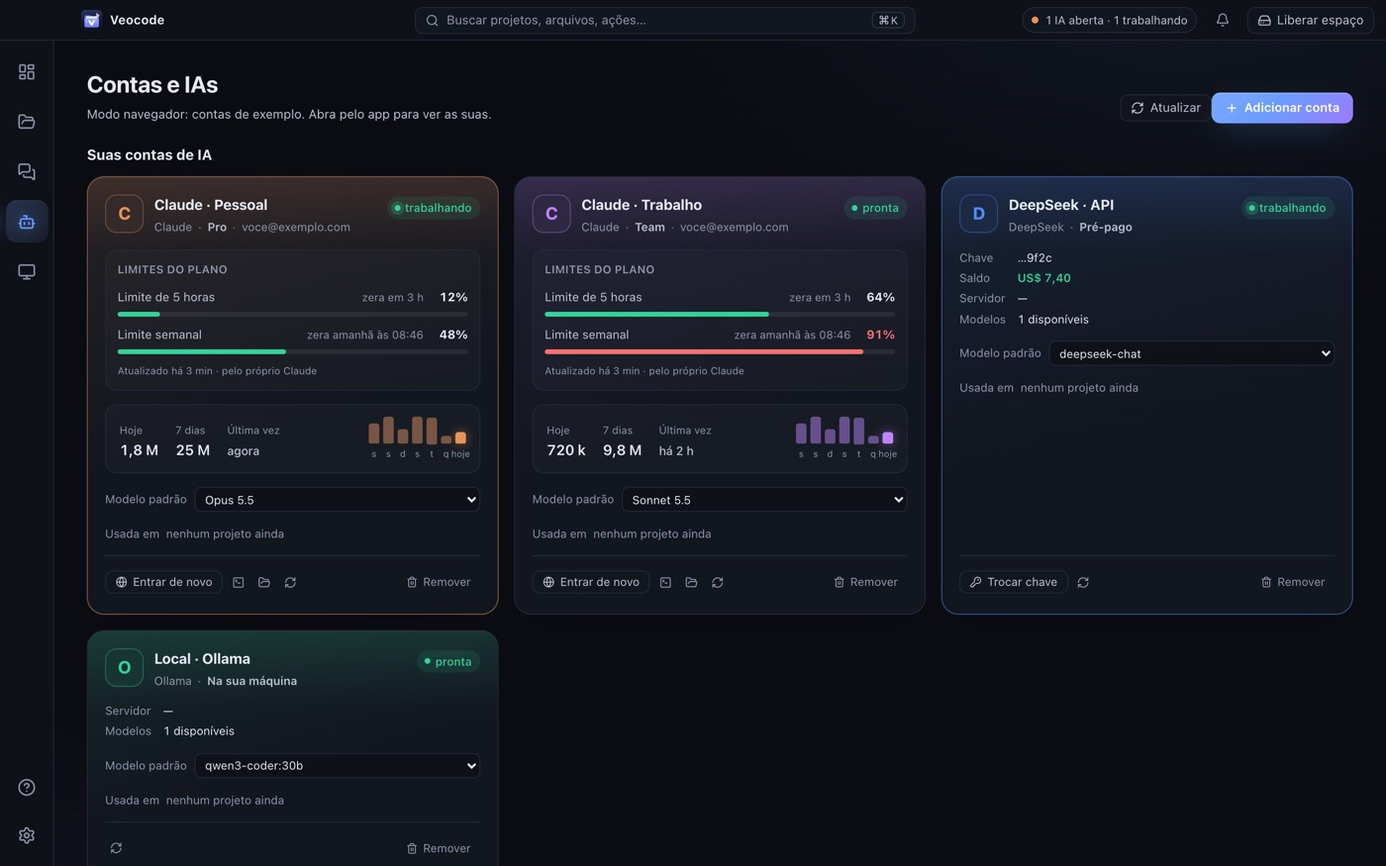
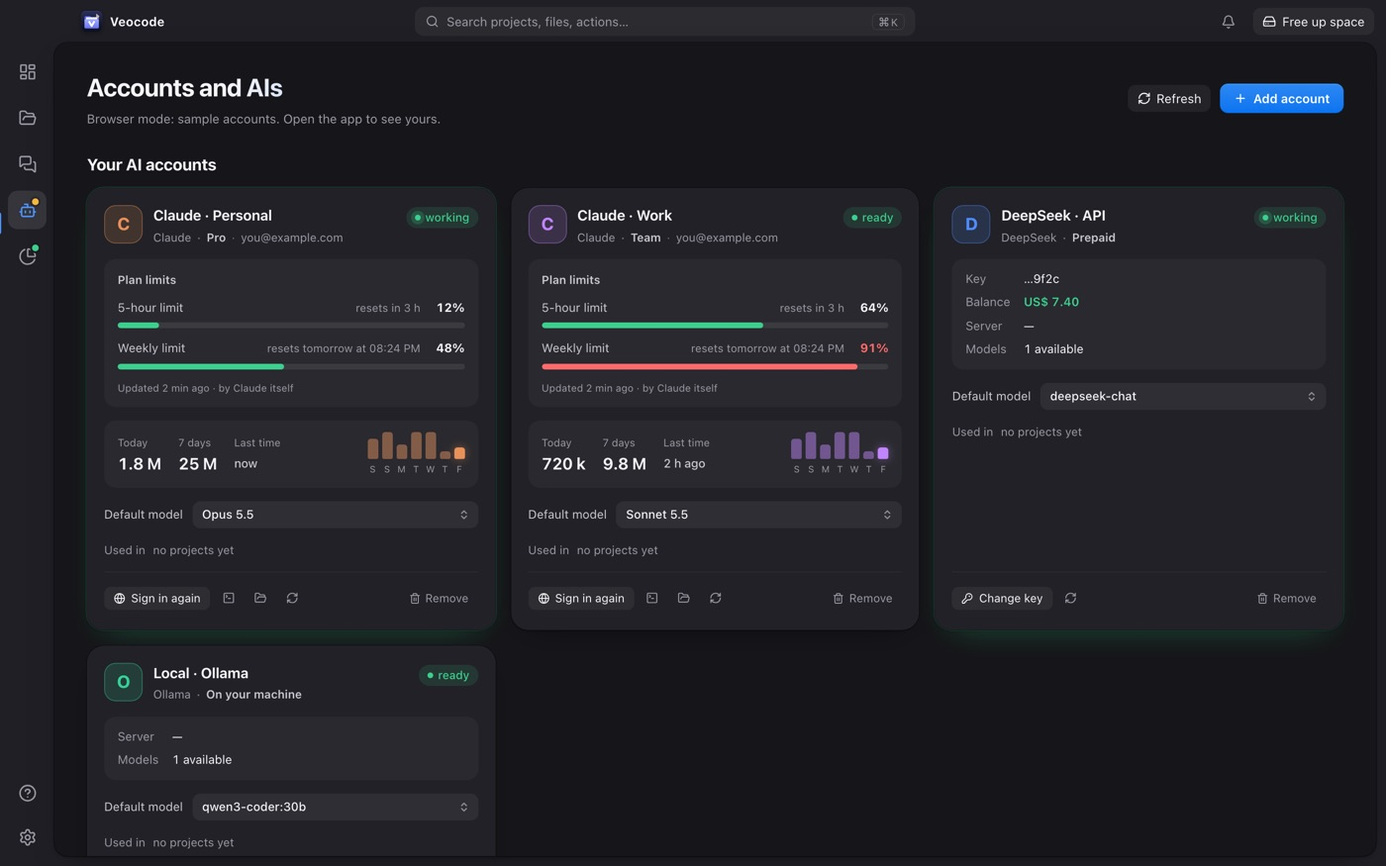
Veocode 0.6.0: project map section, new screenshots
- New "Mapa do projeto" section on the Veocode page, with the map shot.
- Projects section rewritten for the two modes (AI and Code), groups,
  Local/Cloud and the real Stop; Code mode screenshot.
- All Veocode screenshots retaken in English from the sample data.
- Home card: map thumbnail, map in the quick look, updated copy.
- apps.js points to v0.6.0.

diff --git a/veocode/strings.js b/veocode/strings.js
@@ -6,7 +6,6 @@ window.WITCH_STRINGS = Object.freeze({
   "Veja e controle o que as IAs fazem no seu Mac. Os seus projetos, as suas contas de IA e tudo o que os agentes deixam para trás, numa janela só. Gratuito e de código aberto.": ["See and control what AI agents do on your Mac. Your projects, your AI accounts and everything the agents leave behind, in one window. Free and open source.", "Mira y controla lo que hacen las IA en tu Mac. Tus proyectos, tus cuentas de IA y todo lo que los agentes dejan atrás, en una sola ventana. Gratis y de código abierto.", "Смотрите и управляйте тем, что ИИ делает на вашем Mac. Ваши проекты, аккаунты ИИ и всё, что оставляют агенты, — в одном окне. Бесплатно и с открытым исходным кодом."],
   "Instalar no Mac": ["Install on Mac", "Instalar en el Mac", "Установить на Mac"],
   "macOS 13 ou mais novo · Apple Silicon e Intel · Gratuito": ["macOS 13 or later · Apple Silicon and Intel · Free", "macOS 13 o posterior · Apple Silicon e Intel · Gratis", "macOS 13 или новее · Apple Silicon и Intel · Бесплатно"],
-  "Um projeto com o agente trabalhando: a árvore de arquivos acende a cada arquivo lido ou editado": ["A project with the agent at work: the file tree lights up on every file it reads or edits", "Un proyecto con el agente trabajando: el árbol de archivos se ilumina en cada archivo leído o editado", "Проект, где работает агент: дерево файлов подсвечивает каждый прочитанный или изменённый файл"],
   "tipos de IA: Claude, DeepSeek, OpenAI e Ollama": ["kinds of AI: Claude, DeepSeek, OpenAI and Ollama", "tipos de IA: Claude, DeepSeek, OpenAI y Ollama", "вида ИИ: Claude, DeepSeek, OpenAI и Ollama"],
   "ferramentas de VM e container vigiadas": ["VM and container tools watched", "herramientas de VM y contenedores vigiladas", "инструментов ВМ и контейнеров под наблюдением"],
   "arquivos apagados de vez: tudo vai para a Lixeira": ["files deleted for good: everything goes to the Trash", "archivos borrados para siempre: todo va a la Papelera", "файлов удалено навсегда: всё уходит в Корзину"],
@@ -21,14 +20,28 @@ window.WITCH_STRINGS = Object.freeze({
   "Caches, históricos e ambientes que crescem até dezenas de GB, e extras que gastam tokens em toda conversa sem ninguém lembrar que estão lá.": ["Caches, logs and sandboxes that grow to tens of GB, and extras that spend tokens in every conversation with nobody remembering they are there.", "Cachés, historiales y entornos que crecen hasta decenas de GB, y extras que gastan tokens en cada conversación sin que nadie recuerde que están ahí.", "Кэши, журналы и окружения, разрастающиеся до десятков ГБ, и дополнения, которые тратят токены в каждом диалоге, хотя о них никто не помнит."],
   "Projetos": ["Projects", "Proyectos", "Проекты"],
   "Veja a IA trabalhando.": ["Watch the AI at work.", "Mira a la IA trabajando.", "Смотрите, как работает ИИ."],
-  "Cada projeto é uma pasta de verdade, com árvore de arquivos, editor, Git e terminais. Cada passo do agente aparece na árvore, com um cursor na cor da conta: o que ele leu, buscou, editou ou rodou.": ["Each project is a real folder, with a file tree, editor, Git and terminals. Every step the agent takes shows up on the tree, with a cursor in the account's color: what it read, searched, edited or ran.", "Cada proyecto es una carpeta real, con árbol de archivos, editor, Git y terminales. Cada paso del agente aparece en el árbol, con un cursor del color de la cuenta: lo que leyó, buscó, editó o ejecutó.", "Каждый проект — настоящая папка с деревом файлов, редактором, Git и терминалами. Каждый шаг агента виден в дереве с курсором цвета аккаунта: что он прочитал, искал, изменил или запустил."],
+  "Um projeto no modo IA com o agente trabalhando: a lista de tarefas, o passo ao vivo com o botão Parar e o app rodando no navegador": ["A project in AI mode with the agent at work: its task list, the live step with the Stop button and the app running in the browser", "Un proyecto en modo IA con el agente trabajando: la lista de tareas, el paso en vivo con el botón Detener y la app funcionando en el navegador", "Проект в режиме ИИ, агент работает: список задач, текущий шаг с кнопкой «Стоп» и приложение в браузере"],
+  "Cada projeto é uma pasta de verdade, em dois modos. No modo IA, as conversas do projeto, o chat e, ao lado, o app rodando no navegador, os comandos e os subagentes. No modo Código, árvore de arquivos, editor, Git com o antes e depois lado a lado, terminal e o mapa do projeto.": ["Each project is a real folder, in two modes. In AI mode: the project's conversations, the chat and, next to it, the app running in a browser, the commands and the subagents. In Code mode: file tree, editor, Git with before and after side by side, terminal and the project map.", "Cada proyecto es una carpeta real, en dos modos. En modo IA, las conversaciones del proyecto, el chat y, al lado, la app funcionando en el navegador, los comandos y los subagentes. En modo Código, árbol de archivos, editor, Git con el antes y el después lado a lado, terminal y el mapa del proyecto.", "Каждый проект — настоящая папка в двух режимах. В режиме ИИ: диалоги проекта, чат, а рядом приложение в браузере, команды и субагенты. В режиме кода: дерево файлов, редактор, Git с «до» и «после» рядом, терминал и карта проекта."],
+  "Parar de verdade": ["A real Stop", "Detener de verdad", "Настоящая остановка"],
+  ": o botão Parar interrompe a IA e tudo o que ela abriu, até conversas rodando fora do Veocode, no Terminal ou no editor.": [": the Stop button halts the AI and everything it started, even conversations running outside Veocode, in Terminal or your editor.", ": el botón Detener interrumpe la IA y todo lo que abrió, incluso conversaciones que corren fuera de Veocode, en Terminal o en el editor.", ": кнопка «Стоп» прерывает ИИ и всё, что он запустил, даже диалоги вне Veocode — в Терминале или редакторе."],
+  "Grupos e nuvem": ["Groups and cloud", "Grupos y nube", "Группы и облако"],
+  ": junte as conversas por assunto e veja as sessões do Claude Code na nuvem ao lado das locais.": [": group conversations by topic and see Claude Code's cloud sessions next to the local ones.", ": agrupa las conversaciones por tema y ve las sesiones de Claude Code en la nube junto a las locales.", ": группируйте диалоги по темам и смотрите облачные сессии Claude Code рядом с локальными."],
+  "Modo Código: árvore de arquivos, editor e o painel do Git com os commits num gráfico": ["Code mode: file tree, editor and the Git panel with the commits in a graph", "Modo Código: árbol de archivos, editor y el panel de Git con los commits en un gráfico", "Режим кода: дерево файлов, редактор и панель Git с графом коммитов"],
+  "Mapa do projeto": ["Project map", "Mapa del proyecto", "Карта проекта"],
+  "O projeto inteiro, num mapa.": ["The whole project, on one map.", "Todo el proyecto, en un mapa.", "Весь проект на одной карте."],
+  "Um grafo do projeto, como o do Obsidian: cada área do código é uma nuvem colorida, cada arquivo um ponto e as linhas mostram quem usa quem. E ao vivo: o que a IA está mexendo pulsa no mapa, e o que mudou sem commit ganha um anel.": ["A graph of the project, like Obsidian's: each area of the code is a colored cloud, each file a point, and the lines show who uses whom. And it's live: what the AI is working on pulses on the map, and what changed without a commit gets a ring.", "Un grafo del proyecto, como el de Obsidian: cada área del código es una nube de color, cada archivo un punto y las líneas muestran quién usa a quién. Y en vivo: lo que la IA está tocando late en el mapa, y lo que cambió sin commit lleva un anillo.", "Граф проекта, как в Obsidian: каждая область кода — цветное облако, каждый файл — точка, а линии показывают, кто кого использует. И всё вживую: то, над чем работает ИИ, пульсирует на карте, а изменённое без коммита обведено кольцом."],
+  "Do código ou pela IA": ["From the code or by the AI", "Desde el código o por la IA", "Из кода или от ИИ"],
+  ": o Veocode lê os imports em segundos, ou a IA do projeto desenha um mapa de ideias, com telas, serviços e dados.": [": Veocode reads the imports in seconds, or the project's AI draws a map of ideas, with screens, services and data.", ": Veocode lee los imports en segundos, o la IA del proyecto dibuja un mapa de ideas, con pantallas, servicios y datos.", ": Veocode читает импорты за секунды, или ИИ проекта рисует карту идей — экраны, сервисы и данные."],
+  "Um arquivo só": ["One single file", "Un solo archivo", "Один файл"],
+  ": tudo fica em": [": everything lives in", ": todo queda en", ": всё хранится в"],
+  ", com poucos KB. O visualizador já vem no app.": [", just a few KB. The viewer is built into the app.", ", con pocos KB. El visor ya viene en la app.", ", всего несколько КБ. Просмотрщик встроен в приложение."],
+  "Clique e veja": ["Click and see", "Haz clic y mira", "Нажмите и смотрите"],
+  ": o que cada arquivo usa e quem usa ele. Dois cliques abrem o arquivo.": [": what each file uses and what uses it. Double-click opens the file.", ": lo que usa cada archivo y quién lo usa. Doble clic abre el archivo.", ": что использует каждый файл и кто использует его. Двойной щелчок открывает файл."],
+  "Mapa do projeto: as áreas do código em nuvens coloridas, os arquivos como pontos e as ligações entre eles": ["Project map: the code's areas as colored clouds, files as points and the links between them", "Mapa del proyecto: las áreas del código en nubes de color, los archivos como puntos y los enlaces entre ellos", "Карта проекта: области кода — цветные облака, файлы — точки, и связи между ними"],
   "Chat dentro do app": ["Chat inside the app", "Chat dentro de la app", "Чат внутри приложения"],
   ": Claude Code, DeepSeek, APIs compatíveis com OpenAI ou Ollama, na pasta do projeto.": [": Claude Code, DeepSeek, OpenAI-compatible APIs or Ollama, in the project folder.", ": Claude Code, DeepSeek, APIs compatibles con OpenAI u Ollama, en la carpeta del proyecto.", ": Claude Code, DeepSeek, API, совместимые с OpenAI, или Ollama — в папке проекта."],
   "Nível de acesso de verdade": ["Real access levels", "Nivel de acceso de verdad", "Настоящие уровни доступа"],
   ": Leitura, Sugerir, Editar ou Total, gravado nas regras do próprio Claude Code.": [": Read only, Suggest, Edit or Full, written into Claude Code's own rules.", ": Lectura, Sugerir, Editar o Total, guardado en las reglas del propio Claude Code.", ": Чтение, Предложения, Правка или Полный, записанные в правила самого Claude Code."],
-  "Pedidos de permissão": ["Permission requests", "Las solicitudes de permiso", "Запросы разрешений"],
-  "viram cartões com Permitir e Recusar.": ["become cards with Allow and Deny.", "se convierten en tarjetas con Permitir y Rechazar.", "становятся карточками с кнопками «Разрешить» и «Отклонить»."],
-  "Projeto com o agente lendo arquivos e a lista de passos": ["Project with the agent reading files and the list of steps", "Proyecto con el agente leyendo archivos y la lista de pasos", "Проект: агент читает файлы, рядом список шагов"],
   "Espaço e memória": ["Space and memory", "Espacio y memoria", "Место и память"],
   "Tudo o que as IAs deixaram no Mac.": ["Everything the AIs left on your Mac.", "Todo lo que las IA dejaron en el Mac.", "Всё, что ИИ оставили на Mac."],
   "O Veocode mede o que os agentes guardam e instalam e mostra o que dá para liberar, com um clique e sempre para a Lixeira.": ["Veocode measures what the agents store and install and shows what can be freed, in one click and always to the Trash.", "Veocode mide lo que los agentes guardan e instalan y muestra lo que se puede liberar, con un clic y siempre a la Papelera.", "Veocode измеряет, что агенты хранят и устанавливают, и показывает, что можно освободить — одним щелчком и всегда в Корзину."],

diff --git a/veocode/index.html b/veocode/index.html
@@ -9,7 +9,7 @@
 <meta property="og:description" content="Veja e controle o que as IAs fazem no seu Mac. Gratuito.">
 <meta property="og:type" content="website">
 <meta property="og:url" content="https://witchmymac.com/veocode/">
-<meta property="og:image" content="https://witchmymac.com/assets/shots/veocode/projects.jpg">
+<meta property="og:image" content="https://witchmymac.com/assets/shots/veocode/map.jpg">
 <meta name="twitter:card" content="summary_large_image">
 <meta name="theme-color" content="#0b0a14">
 <link rel="icon" href="../assets/icons/favicon.png" type="image/png">
@@ -21,7 +21,7 @@
 <link rel="stylesheet" href="../effects.css?v=202611061900">
 <link rel="stylesheet" href="../gatekeeper.css?v=202611071600">
 <link rel="stylesheet" href="../app-page.css?v=202611090600">
-<link rel="stylesheet" href="page.css?v=202611190600">
+<link rel="stylesheet" href="page.css?v=202611201500">
 </head>
 <body class="app-page" data-app="veocode">
 <div class="bg" aria-hidden="true"><div class="stars"></div><div class="glow glow-a"></div><div class="glow glow-b"></div></div>
@@ -54,7 +54,7 @@
 <main id="top">
   <section class="wu-hero container">
     <a class="ap-back" href="../#veocode">← Todos os apps</a>
-    <img src="../assets/icons/veocode.png?v=202611190600" alt="" class="ap-icon" width="112" height="112">
+    <img src="../assets/icons/veocode.png?v=202611201500" alt="" class="ap-icon" width="112" height="112">
     <p class="eyebrow">Para quem programa com IA</p>
     <h1>Veo<span>code</span></h1>
     <p class="lead">Veja e controle o que as IAs fazem no seu Mac. Os seus projetos, as suas contas de IA e tudo o que os agentes deixam para trás, numa janela só. Gratuito e de código aberto.</p>
@@ -64,7 +64,7 @@
     </div>
     <p class="req"><span data-version="veocode" data-no-i18n></span> macOS 13 ou mais novo · Apple Silicon e Intel · Gratuito</p>
     <div class="wu-stage">
-      <figure class="wu-main"><button class="shot" type="button"><img src="../assets/shots/veocode/projects.jpg?v=202611190600" alt="Um projeto com o agente trabalhando: a árvore de arquivos acende a cada arquivo lido ou editado" width="1400" height="875"></button></figure>
+      <figure class="wu-main"><button class="shot" type="button"><img src="../assets/shots/veocode/projects.jpg?v=202611201500" alt="Um projeto no modo IA com o agente trabalhando: a lista de tarefas, o passo ao vivo com o botão Parar e o app rodando no navegador" width="1400" height="875"></button></figure>
     </div>
     <div class="wu-stats">
       <div><b>4</b><span>tipos de IA: Claude, DeepSeek, OpenAI e Ollama</span></div>
@@ -88,19 +88,36 @@
       <div class="wu-copy">
         <p class="wu-kicker">Projetos</p>
         <h2>Veja a IA trabalhando.</h2>
-        <p>Cada projeto é uma pasta de verdade, com árvore de arquivos, editor, Git e terminais. Cada passo do agente aparece na árvore, com um cursor na cor da conta: o que ele leu, buscou, editou ou rodou.</p>
+        <p>Cada projeto é uma pasta de verdade, em dois modos. No modo IA, as conversas do projeto, o chat e, ao lado, o app rodando no navegador, os comandos e os subagentes. No modo Código, árvore de arquivos, editor, Git com o antes e depois lado a lado, terminal e o mapa do projeto.</p>
         <ul class="wu-list">
           <li><b>Chat dentro do app</b>: Claude Code, DeepSeek, APIs compatíveis com OpenAI ou Ollama, na pasta do projeto.</li>
+          <li><b>Parar de verdade</b>: o botão Parar interrompe a IA e tudo o que ela abriu, até conversas rodando fora do Veocode, no Terminal ou no editor.</li>
+          <li><b>Grupos e nuvem</b>: junte as conversas por assunto e veja as sessões do Claude Code na nuvem ao lado das locais.</li>
           <li><b>Nível de acesso de verdade</b>: Leitura, Sugerir, Editar ou Total, gravado nas regras do próprio Claude Code.</li>
-          <li><b>Pedidos de permissão</b> viram cartões com Permitir e Recusar.</li>
         </ul>
       </div>
-      <div class="wu-media"><figure><button class="shot" type="button"><img src="../assets/shots/veocode/projects.jpg?v=202611190600" alt="Projeto com o agente lendo arquivos e a lista de passos" loading="lazy" width="1400" height="875"></button></figure></div>
+      <div class="wu-media"><figure><button class="shot" type="button"><img src="../assets/shots/veocode/code.jpg?v=202611201500" alt="Modo Código: árvore de arquivos, editor e o painel do Git com os commits num gráfico" loading="lazy" width="1400" height="875"></button></figure></div>
     </div>
   </section>
 
   <section class="section container wu-chapter">
     <div class="wu-split reverse">
+      <div class="wu-copy">
+        <p class="wu-kicker">Mapa do projeto</p>
+        <h2>O projeto inteiro, num mapa.</h2>
+        <p>Um grafo do projeto, como o do Obsidian: cada área do código é uma nuvem colorida, cada arquivo um ponto e as linhas mostram quem usa quem. E ao vivo: o que a IA está mexendo pulsa no mapa, e o que mudou sem commit ganha um anel.</p>
+        <ul class="wu-list">
+          <li><b>Do código ou pela IA</b>: o Veocode lê os imports em segundos, ou a IA do projeto desenha um mapa de ideias, com telas, serviços e dados.</li>
+          <li><b>Um arquivo só</b>: tudo fica em <code>.veocode/map.json</code>, com poucos KB. O visualizador já vem no app.</li>
+          <li><b>Clique e veja</b>: o que cada arquivo usa e quem usa ele. Dois cliques abrem o arquivo.</li>
+        </ul>
+      </div>
+      <div class="wu-media"><figure><button class="shot" type="button"><img src="../assets/shots/veocode/map.jpg?v=202611201500" alt="Mapa do projeto: as áreas do código em nuvens coloridas, os arquivos como pontos e as ligações entre eles" loading="lazy" width="1400" height="875"></button></figure></div>
+    </div>
+  </section>
+
+  <section class="section container wu-chapter">
+    <div class="wu-split">
       <div class="wu-copy">
         <p class="wu-kicker">Espaço e memória</p>
         <h2>Tudo o que as IAs deixaram no Mac.</h2>
@@ -111,12 +128,12 @@
           <li><b>IAs locais, VMs e containers</b>: Ollama, LM Studio, Docker, Lima, UTM, Parallels e VirtualBox.</li>
         </ul>
       </div>
-      <div class="wu-media"><figure><button class="shot" type="button"><img src="../assets/shots/veocode/space.jpg?v=202611190600" alt="Espaço e memória: o que as IAs deixaram no disco" loading="lazy" width="1400" height="875"></button></figure></div>
+      <div class="wu-media"><figure><button class="shot" type="button"><img src="../assets/shots/veocode/space.jpg?v=202611201500" alt="Espaço e memória: o que as IAs deixaram no disco" loading="lazy" width="1400" height="875"></button></figure></div>
     </div>
   </section>
 
   <section class="section container wu-chapter">
-    <div class="wu-split">
+    <div class="wu-split reverse">
       <div class="wu-copy">
         <p class="wu-kicker">Portas abertas</p>
         <h2>Servidores esquecidos, encontrados.</h2>
@@ -126,12 +143,12 @@
           <li><b>Sempre com confirmação</b> antes de fechar.</li>
         </ul>
       </div>
-      <div class="wu-media"><figure><button class="shot" type="button"><img src="../assets/shots/veocode/ports.jpg?v=202611190600" alt="Portas abertas com um servidor que sobrou de uma sessão fechada" loading="lazy" width="1400" height="875"></button></figure></div>
+      <div class="wu-media"><figure><button class="shot" type="button"><img src="../assets/shots/veocode/ports.jpg?v=202611201500" alt="Portas abertas com um servidor que sobrou de uma sessão fechada" loading="lazy" width="1400" height="875"></button></figure></div>
     </div>
   </section>
 
   <section class="section container wu-chapter">
-    <div class="wu-split reverse">
+    <div class="wu-split">
       <div class="wu-copy">
         <p class="wu-kicker">Extras do Claude</p>
         <h2>Skills, plugins e MCP, num lugar só.</h2>
@@ -141,15 +158,15 @@
           <li><b>Chaves protegidas</b>: das conexões aparecem só os nomes das variáveis, nunca os valores.</li>
         </ul>
       </div>
-      <div class="wu-media"><figure><button class="shot" type="button"><img src="../assets/shots/veocode/extras.jpg?v=202611190600" alt="Extras do Claude: receitas, atalhos, ajudantes e conexões" loading="lazy" width="1400" height="875"></button></figure></div>
+      <div class="wu-media"><figure><button class="shot" type="button"><img src="../assets/shots/veocode/extras.jpg?v=202611201500" alt="Extras do Claude: receitas, atalhos, ajudantes e conexões" loading="lazy" width="1400" height="875"></button></figure></div>
     </div>
   </section>
 
   <section class="section container wu-chapter">
     <div class="section-head"><p class="wu-kicker">Contas e chat livre</p><h2>Todas as suas IAs, lado a lado.</h2><p>Várias contas do Claude, cada uma com os limites do plano e o uso do dia, mais DeepSeek, APIs compatíveis com OpenAI e modelos locais. E um chat fora de qualquer projeto, que pode só conversar ou ler (só ler) a sua pasta pessoal.</p></div>
     <div class="wu-pair" style="max-width:1100px;margin:0 auto">
-      <figure><button class="shot" type="button"><img src="../assets/shots/veocode/accounts.jpg?v=202611190600" alt="Contas e IAs com os limites de cada plano" loading="lazy" width="1400" height="875"></button><figcaption>Contas e IAs</figcaption></figure>
-      <figure><button class="shot" type="button"><img src="../assets/shots/veocode/chat.jpg?v=202611190600" alt="Chat livre com a escolha da IA na caixa de mensagem" loading="lazy" width="1400" height="875"></button><figcaption>Chat livre</figcaption></figure>
+      <figure><button class="shot" type="button"><img src="../assets/shots/veocode/accounts.jpg?v=202611201500" alt="Contas e IAs com os limites de cada plano" loading="lazy" width="1400" height="875"></button><figcaption>Contas e IAs</figcaption></figure>
+      <figure><button class="shot" type="button"><img src="../assets/shots/veocode/chat.jpg?v=202611201500" alt="Chat livre com a escolha da IA na caixa de mensagem" loading="lazy" width="1400" height="875"></button><figcaption>Chat livre</figcaption></figure>
     </div>
   </section>
 
@@ -239,11 +256,11 @@
   </div>
 </footer>
 
-<script src="../apps.js?v=202611190600"></script>
+<script src="../apps.js?v=202611201500"></script>
 <script src="../install-command.js?v=202611071600"></script>
 <script src="../script.js?v=202611071700"></script>
-<script src="../i18n-strings.js?v=202611190600"></script>
-<script src="strings.js?v=202611190600"></script>
+<script src="../i18n-strings.js?v=202611201500"></script>
+<script src="strings.js?v=202611201500"></script>
 <script src="page.js?v=202610271200"></script>
 <script src="../i18n.js?v=202610271200"></script>
 <script src="../effects.js?v=202611061900"></script>

diff --git a/i18n-strings.js b/i18n-strings.js
@@ -776,12 +776,13 @@ window.WITCH_STRINGS = Object.freeze({
   "macOS 11 ou mais novo · Windows 10 e 11": ["macOS 11 or later · Windows 10 and 11", "macOS 11 o posterior · Windows 10 y 11", "macOS 11 или новее · Windows 10 и 11"],
   // Veocode
   "Veja e controle o que as IAs fazem no seu Mac": ["See and control what AI does on your Mac", "Mira y controla lo que hacen las IA en tu Mac", "Смотрите и управляйте тем, что ИИ делает на Mac"],
-  "Projetos, contas de IA e tudo o que os agentes deixam para trás: caches, instalações, containers e servidores esquecidos. Claude, DeepSeek, OpenAI e Ollama.": ["Projects, AI accounts and everything agents leave behind: caches, installs, containers and forgotten servers. Claude, DeepSeek, OpenAI and Ollama.", "Proyectos, cuentas de IA y todo lo que los agentes dejan atrás: cachés, instalaciones, contenedores y servidores olvidados. Claude, DeepSeek, OpenAI y Ollama.", "Проекты, аккаунты ИИ и всё, что оставляют агенты: кэши, установки, контейнеры и забытые серверы. Claude, DeepSeek, OpenAI и Ollama."],
-  "Um projeto com o agente trabalhando na árvore de arquivos": ["A project with the agent working on the file tree", "Un proyecto con el agente trabajando en el árbol de archivos", "Проект: агент работает с деревом файлов"],
+  "Projetos com o mapa de cada um, contas de IA e tudo o que os agentes deixam para trás: caches, instalações, containers e servidores esquecidos. Claude, DeepSeek, OpenAI e Ollama.": ["Projects with a map of each one, AI accounts and everything agents leave behind: caches, installs, containers and forgotten servers. Claude, DeepSeek, OpenAI and Ollama.", "Proyectos con el mapa de cada uno, cuentas de IA y todo lo que los agentes dejan atrás: cachés, instalaciones, contenedores y servidores olvidados. Claude, DeepSeek, OpenAI y Ollama.", "Проекты с картой каждого, аккаунты ИИ и всё, что оставляют агенты: кэши, установки, контейнеры и забытые серверы. Claude, DeepSeek, OpenAI и Ollama."],
+  "Mapa do projeto: as áreas do código e quem usa quem": ["Project map: the code's areas and who uses whom", "Mapa del proyecto: las áreas del código y quién usa a quién", "Карта проекта: области кода и кто кого использует"],
+  "Um projeto no modo IA com o agente trabalhando": ["A project in AI mode with the agent at work", "Un proyecto en modo IA con el agente trabajando", "Проект в режиме ИИ, агент работает"],
   "Espaço e memória: o que as IAs deixaram no disco": ["Space and memory: what the AIs left on disk", "Espacio y memoria: lo que las IA dejaron en el disco", "Место и память: что ИИ оставили на диске"],
   "Portas abertas com um servidor que sobrou de uma sessão fechada": ["Open ports with a server left over from a closed session", "Puertos abiertos con un servidor que quedó de una sesión cerrada", "Открытые порты: сервер, оставшийся после закрытой сессии"],
   "Contas e IAs com os limites de cada plano": ["Accounts and AIs with each plan's limits", "Cuentas e IA con los límites de cada plan", "Аккаунты и ИИ с лимитами каждого тарифа"],
-  "Uma janela para os seus projetos, as suas contas de IA e tudo o que os agentes deixam no Mac. Mostra cada passo do agente na árvore de arquivos e limpa o que sobrou, sempre para a Lixeira.": ["One window for your projects, your AI accounts and everything agents leave on your Mac. It shows every step the agent takes on the file tree and cleans up what's left, always to the Trash.", "Una ventana para tus proyectos, tus cuentas de IA y todo lo que los agentes dejan en el Mac. Muestra cada paso del agente en el árbol de archivos y limpia lo que sobra, siempre a la Papelera.", "Одно окно для ваших проектов, аккаунтов ИИ и всего, что агенты оставляют на Mac. Показывает каждый шаг агента в дереве файлов и убирает остатки — всегда в Корзину."],
+  "Uma janela para os seus projetos, as suas contas de IA e tudo o que os agentes deixam no Mac. Mostra cada passo do agente, desenha o mapa de cada projeto e limpa o que sobrou, sempre para a Lixeira.": ["One window for your projects, your AI accounts and everything agents leave on your Mac. It shows every step the agent takes, draws a map of each project and cleans up what's left, always to the Trash.", "Una ventana para tus proyectos, tus cuentas de IA y todo lo que los agentes dejan en el Mac. Muestra cada paso del agente, dibuja el mapa de cada proyecto y limpia lo que sobra, siempre a la Papelera.", "Одно окно для ваших проектов, аккаунтов ИИ и всего, что агенты оставляют на Mac. Показывает каждый шаг агента, рисует карту каждого проекта и убирает остатки — всегда в Корзину."],
   "macOS 13 ou mais novo · Apple Silicon e Intel": ["macOS 13 or later · Apple Silicon and Intel", "macOS 13 o posterior · Apple Silicon e Intel", "macOS 13 или новее · Apple Silicon и Intel"],
   // Kaveel's Book Studio
   "Escreva o seu próximo livro, do zero à Amazon": ["Write your next book, from scratch to Amazon", "Escribe tu próximo libro, desde cero hasta Amazon", "Напишите свою следующую книгу — с нуля до Amazon"],

diff --git a/index.html b/index.html
@@ -918,7 +918,7 @@
       </article>
       <article class="app-card" data-app="veocode" data-cats="dev util" style="--c:#7c6cff">
         <div class="app-media">
-          <img class="app-thumb" src="assets/thumbs/veocode.webp?v=202611190600" alt="" loading="lazy" decoding="async" width="640" height="400">
+          <img class="app-thumb" src="assets/thumbs/veocode.webp?v=202611201500" alt="" loading="lazy" decoding="async" width="640" height="400">
           <button type="button" class="ql-btn" data-preview aria-label="Prévia rápida"><svg viewBox="0 0 20 20" aria-hidden="true"><path d="M1.8 10S5 4.2 10 4.2 18.2 10 18.2 10 15 15.8 10 15.8 1.8 10 1.8 10Z" fill="none" stroke="currentColor" stroke-width="1.6" stroke-linejoin="round"/><circle cx="10" cy="10" r="2.6" fill="none" stroke="currentColor" stroke-width="1.6"/></svg><span>Prévia</span></button>
         </div>
         <div class="app-body">
@@ -926,7 +926,7 @@
             <img src="assets/icons/veocode.webp?v=202611190600" alt="" class="app-icon" width="56" height="56">
             <div class="app-name"><h3><a class="app-link" href="veocode/">Veocode</a></h3><p class="tag">Veja e controle o que as IAs fazem no seu Mac</p></div>
           </div>
-          <p class="desc">Projetos, contas de IA e tudo o que os agentes deixam para trás: caches, instalações, containers e servidores esquecidos. Claude, DeepSeek, OpenAI e Ollama.</p>
+          <p class="desc">Projetos com o mapa de cada um, contas de IA e tudo o que os agentes deixam para trás: caches, instalações, containers e servidores esquecidos. Claude, DeepSeek, OpenAI e Ollama.</p>
           <div class="app-foot">
             <a class="app-more" href="veocode/">Saiba mais</a>
             <a class="app-dl" data-download="veocode" href="#"><svg viewBox="0 0 16 16" aria-hidden="true"><rect x="1.8" y="2.8" width="12.4" height="10.4" rx="2.4" fill="none" stroke="currentColor" stroke-width="1.5"/><path d="m4.6 6.4 2 1.6-2 1.6M8.4 10h3" fill="none" stroke="currentColor" stroke-width="1.5" stroke-linecap="round" stroke-linejoin="round"/></svg><span>Instalar</span></a>
@@ -936,10 +936,11 @@
           <div class="ql-media">
             <div class="ql-stage"></div>
             <div class="ql-thumbs" role="group" aria-label="Capturas de tela">
-            <button class="shot" type="button"><img data-src="assets/shots/veocode/projects.jpg?v=202611190600" alt="Um projeto com o agente trabalhando na árvore de arquivos" width="1400" height="875"></button>
-            <button class="shot" type="button"><img data-src="assets/shots/veocode/space.jpg?v=202611190600" alt="Espaço e memória: o que as IAs deixaram no disco" width="1400" height="875"></button>
-            <button class="shot" type="button"><img data-src="assets/shots/veocode/ports.jpg?v=202611190600" alt="Portas abertas com um servidor que sobrou de uma sessão fechada" width="1400" height="875"></button>
-            <button class="shot" type="button"><img data-src="assets/shots/veocode/accounts.jpg?v=202611190600" alt="Contas e IAs com os limites de cada plano" width="1400" height="875"></button>
+            <button class="shot" type="button"><img data-src="assets/shots/veocode/map.jpg?v=202611201500" alt="Mapa do projeto: as áreas do código e quem usa quem" width="1400" height="875"></button>
+            <button class="shot" type="button"><img data-src="assets/shots/veocode/projects.jpg?v=202611201500" alt="Um projeto no modo IA com o agente trabalhando" width="1400" height="875"></button>
+            <button class="shot" type="button"><img data-src="assets/shots/veocode/space.jpg?v=202611201500" alt="Espaço e memória: o que as IAs deixaram no disco" width="1400" height="875"></button>
+            <button class="shot" type="button"><img data-src="assets/shots/veocode/ports.jpg?v=202611201500" alt="Portas abertas com um servidor que sobrou de uma sessão fechada" width="1400" height="875"></button>
+            <button class="shot" type="button"><img data-src="assets/shots/veocode/accounts.jpg?v=202611201500" alt="Contas e IAs com os limites de cada plano" width="1400" height="875"></button>
             </div>
           </div>
           <div class="ql-info">
@@ -947,7 +948,7 @@
               <img src="assets/icons/veocode.webp?v=202611190600" alt="" width="64" height="64">
               <div><p class="eyebrow">Veja e controle o que as IAs fazem no seu Mac</p><h2 id="ql-title-veocode">Veocode</h2></div>
             </header>
-            <p class="ql-lead">Uma janela para os seus projetos, as suas contas de IA e tudo o que os agentes deixam no Mac. Mostra cada passo do agente na árvore de arquivos e limpa o que sobrou, sempre para a Lixeira.</p>
+            <p class="ql-lead">Uma janela para os seus projetos, as suas contas de IA e tudo o que os agentes deixam no Mac. Mostra cada passo do agente, desenha o mapa de cada projeto e limpa o que sobrou, sempre para a Lixeira.</p>
           </div>
           <div class="ql-actions">
             <a class="btn btn-primary" href="veocode/">Saiba mais</a>
@@ -1560,10 +1561,10 @@
   </div>
 </footer>
 
-<script src="apps.js?v=202611191200"></script>
+<script src="apps.js?v=202611201500"></script>
 <script src="install-command.js?v=202611071600"></script>
 <script src="script.js?v=202611071700"></script>
-<script src="i18n-strings.js?v=202611191200"></script>
+<script src="i18n-strings.js?v=202611201500"></script>
 <script src="i18n.js?v=202610271200"></script>
 <script src="effects.js?v=202611071200"></script>
 <script src="gatekeeper.js?v=202610242200"></script>

diff --git a/apps.js b/apps.js
@@ -19,7 +19,7 @@ window.WITCH_APPS = Object.freeze({
   rubbishnotes: Object.freeze({ repo: 'rubbish-notes', tag: 'v1.2.1',        file: 'RubbishNotes-1.2.1.dmg', published: true, app: 'Rubbish Notes.app' }),
   excaliburforms: Object.freeze({ repo: 'ExcaliburForms', tag: 'v1.0.0',     file: 'ExcaliburForms-1.0.0.dmg', published: true, app: 'ExcaliburForms.app' }),
   wineup:       Object.freeze({ repo: 'wineup-player', tag: 'v1.1.1',      file: 'WineupPlayer-1.1.1.dmg', published: true, app: 'Wineup Player.app' }),
-  veocode:      Object.freeze({ repo: 'Veocode',       tag: 'v0.5.0',        file: 'Veocode-0.5.0.dmg',      published: true, app: 'Veocode.app' }),
+  veocode:      Object.freeze({ repo: 'Veocode',       tag: 'v0.6.0',        file: 'Veocode-0.6.0.dmg',      published: true, app: 'Veocode.app' }),
   kaveelsbook:  Object.freeze({ repo: 'kaveels-book-studio', tag: 'v0.1.2', file: 'KaveelsBookStudio-mac.dmg', published: true, app: "Kaveel's Book Studio.app" }),
   santovideoplayer: Object.freeze({ repo: 'santo-video-player', tag: 'v2.0.2', file: 'SantoVideoPlayer-2.0.2.dmg', published: true, app: 'Santo Video Player.app' }),
   manhwafy:     Object.freeze({ repo: 'ManhwaFy',      tag: 'v0.1.0',        file: 'ManhwaFy-0.1.0.dmg',     published: true, app: 'ManhwaFy.app' }),
